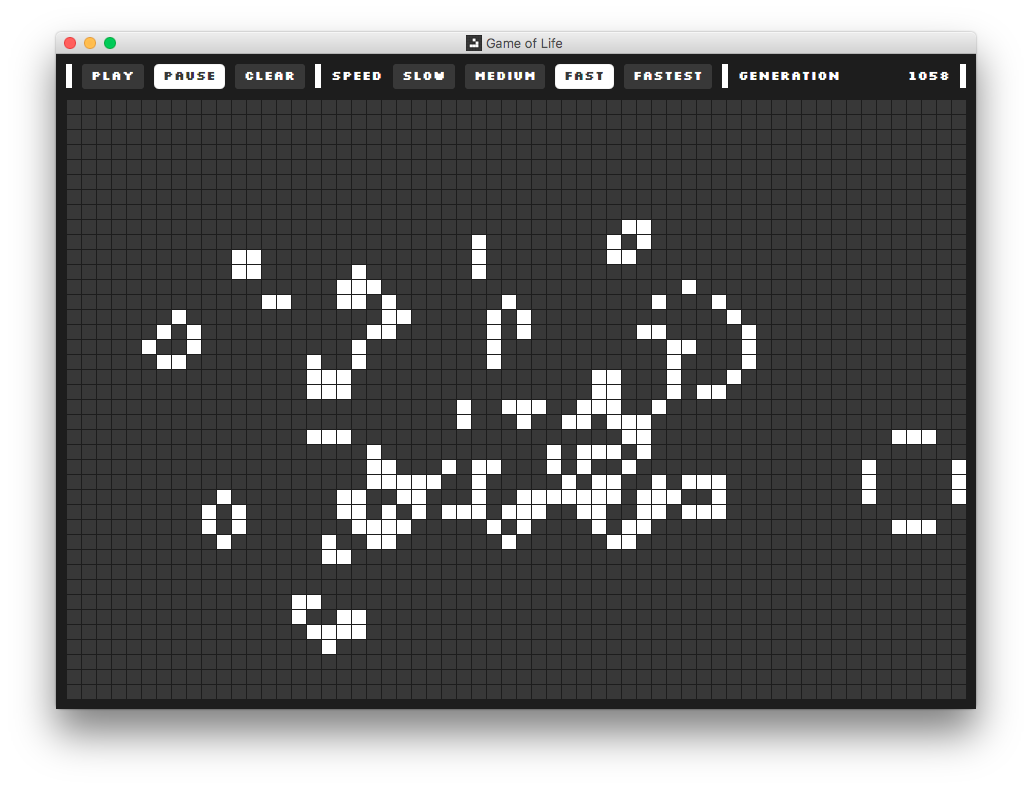
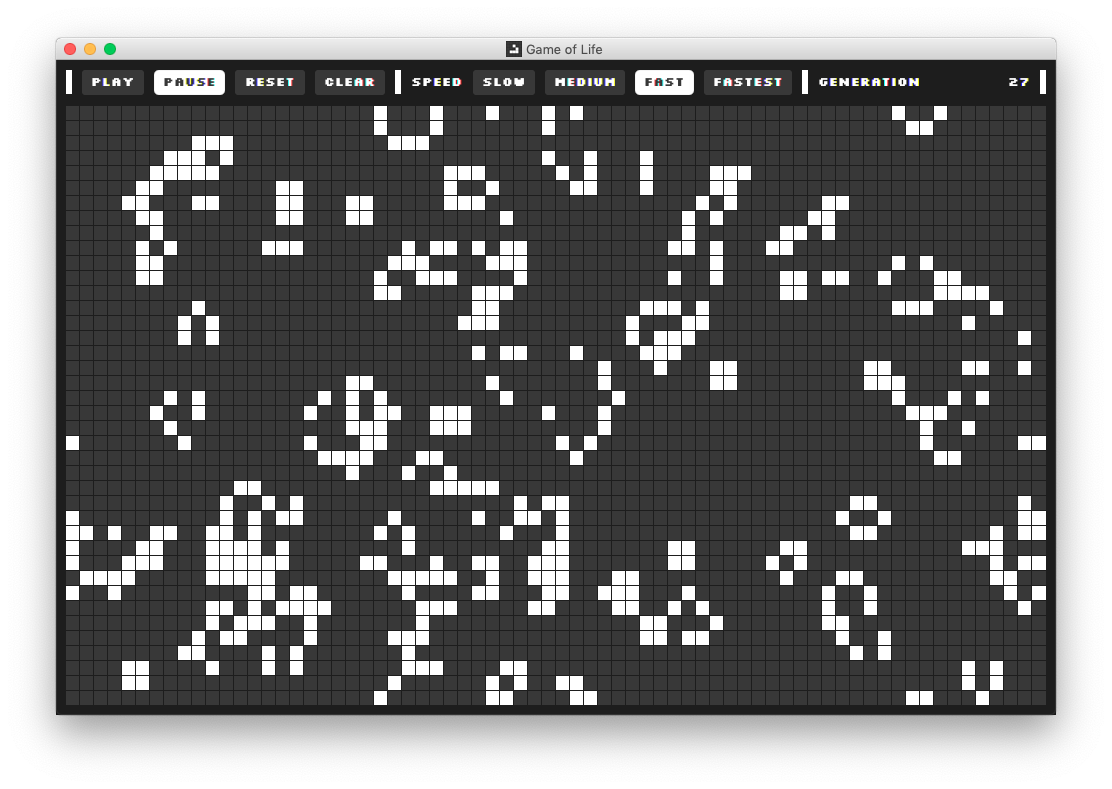
Added reset button

Changed region(s): [[0.031, 0.0304, 0.9612, 0.9125]]

diff --git a/src/main/java/lowe/mike/gameoflife/controller/Controller.java b/src/main/java/lowe/mike/gameoflife/controller/Controller.java
@@ -104,6 +104,7 @@ public class Controller {
 
     addCellPaneStyle(cellPane);
     addAlivePropertyListener(rowIndex, columnIndex, cellPane);
+    setAliveStyle(cellPane, gameOfLife.getGrid().getCell(rowIndex, columnIndex).isAlive());
     addClickEventHandler(rowIndex, columnIndex, cellPane);
 
     gridPane.add(cellPane, columnIndex, rowIndex);
@@ -119,14 +120,17 @@ public class Controller {
   private void addAlivePropertyListener(int rowIndex, int columnIndex, Pane cellPane) {
     BooleanProperty aliveProperty = gameOfLife.getGrid().getCell(rowIndex, columnIndex)
         .aliveProperty();
-    aliveProperty.addListener((observable, oldValue, newValue) -> {
-      ObservableList<String> styleClass = cellPane.getStyleClass();
-      if (newValue) {
-        styleClass.add(ALIVE_STYLE_CLASS);
-      } else {
-        styleClass.remove(ALIVE_STYLE_CLASS);
-      }
-    });
+    aliveProperty.addListener((observable, oldValue, newValue) ->
+        setAliveStyle(cellPane, newValue));
+  }
+
+  private void setAliveStyle(Pane cellPane, boolean isAlive) {
+    ObservableList<String> styleClass = cellPane.getStyleClass();
+    if (isAlive) {
+      styleClass.add(ALIVE_STYLE_CLASS);
+    } else {
+      styleClass.remove(ALIVE_STYLE_CLASS);
+    }
   }
 
   private void addClickEventHandler(int rowIndex, int columnIndex, Pane cellPane) {
@@ -142,6 +146,12 @@ public class Controller {
   @FXML
   private void pauseToggleButtonAction() {
     gameOfLife.pause();
+  }
+
+  @FXML
+  private void resetButtonAction() {
+    gameOfLife.reset();
+    pauseToggleButton.setSelected(true);
   }
 
   @FXML

diff --git a/src/e2eTest/java/lowe/mike/gameoflife/GameOfLifeApplicationTest.java b/src/e2eTest/java/lowe/mike/gameoflife/GameOfLifeApplicationTest.java
@@ -8,6 +8,7 @@ import static org.testfx.api.FxAssert.verifyThat;
 import static org.testfx.matcher.control.LabeledMatchers.hasText;
 
 import java.util.concurrent.TimeUnit;
+import java.util.function.Predicate;
 import javafx.scene.control.ToggleButton;
 import javafx.scene.layout.Pane;
 import org.junit.jupiter.api.BeforeEach;
@@ -61,6 +62,19 @@ public class GameOfLifeApplicationTest {
     WaitForAsyncUtils.sleep(2, TimeUnit.SECONDS);
     String generationAfter = robot.lookup("#generationNumberLabel").queryLabeled().getText();
     assertEquals(generationBefore, generationAfter);
+  }
+
+  @Test
+  public void resetButtonClick_resetsGameOfLife(FxRobot robot) {
+    // initial setup
+    robot.clickOn("#playToggleButton");
+    WaitForAsyncUtils.sleep(2, TimeUnit.SECONDS);
+
+    // execution
+    robot.clickOn("#resetButton");
+
+    // verification
+    verifyThat("#generationNumberLabel", hasText("0"));
   }
 
   @Test
@@ -129,8 +143,10 @@ public class GameOfLifeApplicationTest {
   @Test
   public void cellClick_togglesAlive(FxRobot robot) {
     // initial setup
-    Pane cellPane = robot.lookup(".cellPane").query();
-    cellPane.getStyleClass().remove("alive");
+    Pane cellPane = robot
+        .lookup(".cellPane")
+        .lookup((Predicate<Pane>) p -> !p.getStyleClass().contains("alive"))
+        .query();
 
     // execution
     robot.clickOn(cellPane);

diff --git a/src/main/java/lowe/mike/gameoflife/model/GameOfLife.java b/src/main/java/lowe/mike/gameoflife/model/GameOfLife.java
@@ -4,6 +4,7 @@ import static javafx.animation.Animation.INDEFINITE;
 import static javafx.animation.Animation.Status.RUNNING;
 import static lowe.mike.gameoflife.model.Speed.SLOW;
 
+import java.util.Random;
 import javafx.animation.KeyFrame;
 import javafx.animation.Timeline;
 import javafx.beans.property.ObjectProperty;
@@ -20,6 +21,8 @@ import javafx.util.Duration;
  * @author Mike Lowe
  */
 public class GameOfLife {
+
+  private static final Random RANDOM = new Random();
 
   private final Grid grid;
   private final ReadOnlyLongWrapper generation = new ReadOnlyLongWrapper();
@@ -39,6 +42,7 @@ public class GameOfLife {
     this.grid = new Grid(numberOfRows, numberOfColumns);
     updateTimeline();
     addSpeedPropertyListener();
+    randomGeneration();
   }
 
   private void updateTimeline() {
@@ -138,6 +142,22 @@ public class GameOfLife {
     pause();
     grid.clear();
     generation.set(0);
+  }
+
+  /**
+   * Clears the current game and randomly generates a new one.
+   */
+  public void reset() {
+    clear();
+    randomGeneration();
+  }
+
+  private void randomGeneration() {
+    for (int rowIndex = 0; rowIndex < grid.getNumberOfRows(); rowIndex++) {
+      for (int columnIndex = 0; columnIndex < grid.getNumberOfColumns(); columnIndex++) {
+        grid.getCell(rowIndex, columnIndex).setAlive(RANDOM.nextBoolean());
+      }
+    }
   }
 
 }

diff --git a/src/main/java/lowe/mike/gameoflife/GameOfLifeApplication.java b/src/main/java/lowe/mike/gameoflife/GameOfLifeApplication.java
@@ -22,7 +22,7 @@ public class GameOfLifeApplication extends Application {
 
   private static final String APP_NAME = "Game of Life";
   private static final int NUMBER_OF_ROWS = 40;
-  private static final int NUMBER_OF_COLUMNS = 60;
+  private static final int NUMBER_OF_COLUMNS = 70;
   private static final String VIEW_RESOURCE_PATH = "/view/View.fxml";
   private static final Image ICON_64X64 = new Image("/view/icon-64x64.png");
   private static final Image ICON_32X32 = new Image("/view/icon-32x32.png");
